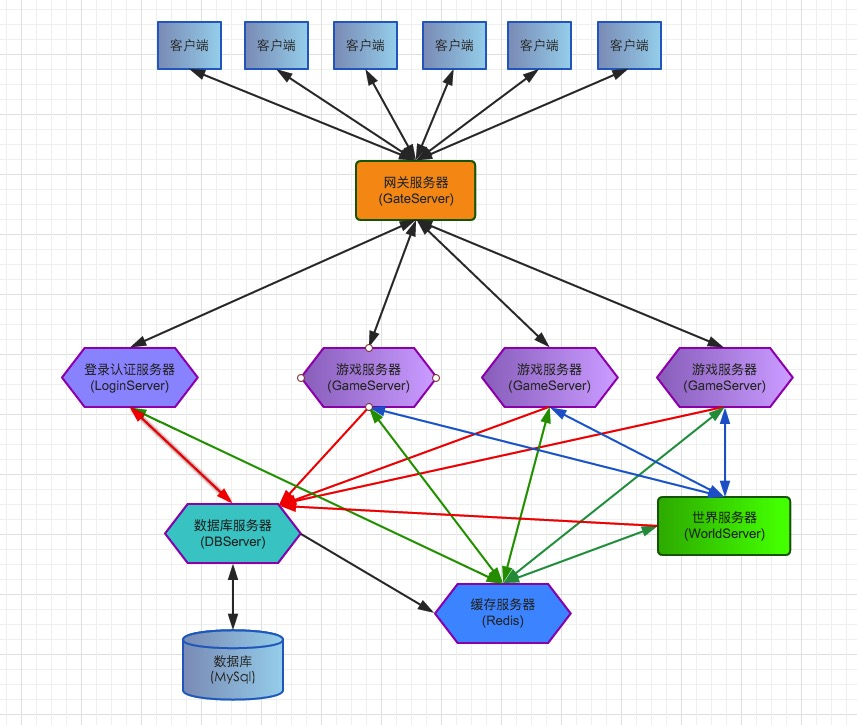
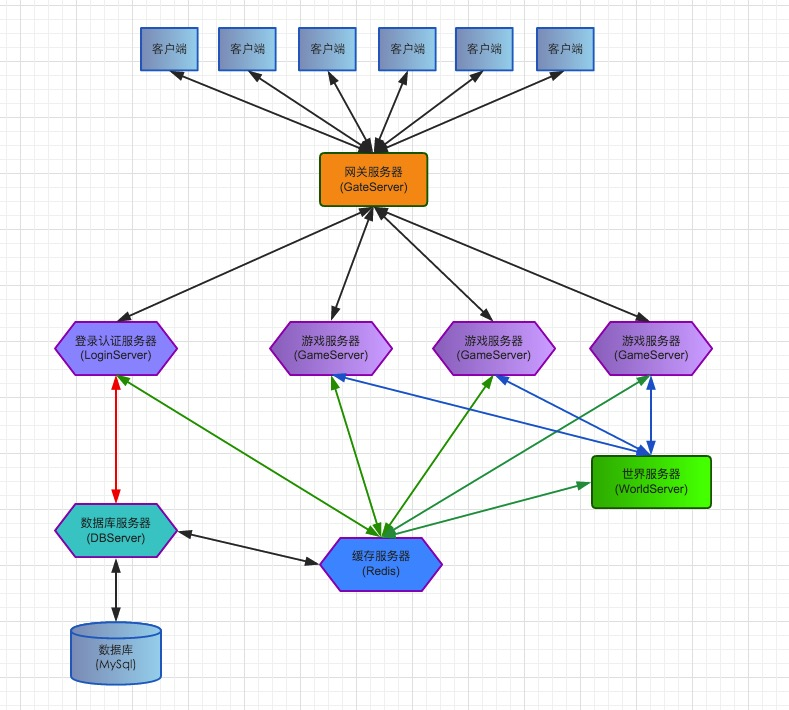
对DB的写入消息修改为由Redis存贮

diff --git a/src/proxys/dbProxy/dbProxyServer.go b/src/proxys/dbProxy/dbProxyServer.go
@@ -1,17 +1,16 @@
 package dbProxy
 
 import (
-	"container/list"
 	"github.com/funny/binary"
 	"github.com/funny/link"
 	"github.com/funny/link/packet"
 	"protos"
-	"protos/dbProto"
 	"protos/systemProto"
 	"strings"
 	. "tools"
 	"tools/db"
 	"tools/timer"
+	"proxys/redisProxy"
 )
 
 type goroutineMsg struct {
@@ -29,17 +28,15 @@ const (
 
 var (
 	servers                  map[string]*link.Session
-	asyncMsgs                *list.List
 	syncDbTimerID            uint64
 	revSyncMsgGoroutines     []goroutineObj
 	revSyncMsgGoroutineIndex int
-	revSyncMsgGoroutineNum   int
+	revSyncMsgGoroutineNum   int = 10
 )
 
 //初始化
 func InitServer(port string) error {
 	servers = make(map[string]*link.Session)
-	asyncMsgs = list.New()
 
 	db.Init()
 
@@ -65,9 +62,6 @@ func InitServer(port string) error {
 			if systemProto.IsValidID(msgID) {
 				//系统消息
 				dealReceiveSystemMsgC2S(session, msg)
-			} else if dbProto.IsValidAsyncID(msgID) {
-				//异步DB消息
-				asyncMsgs.PushBack(msg)
 			} else {
 				//同步DB消息
 				useObj := revSyncMsgGoroutines[revSyncMsgGoroutineIndex]
@@ -121,18 +115,21 @@ func StopSyncDB() {
 
 //同步数据到DB服务器
 func onSyncDBTimer() {
-	INFO("SyncDB Num: ", asyncMsgs.Len())
-	for msg := asyncMsgs.Front(); msg != nil; msg = msg.Next() {
-		protoMsg := msg.Value.(packet.RAW)
-		dealReceiveAsyncDBMsgC2S(protoMsg)
+	datas := redisProxy.PullDBWriteMsg()
+	if datas == nil{
+		return
 	}
-	asyncMsgs.Init()
+	dlen := len(datas)
+	for i := 0; i < dlen; i++ {
+		msg := datas[i]
+		dealReceiveAsyncDBMsgC2S(packet.RAW(msg))
+	}
+	INFO("SyncDB Num: ", dlen)
 }
 
 //创建接收同步消息的Goroutines
 func createRevGoroutines() {
 	revSyncMsgGoroutineIndex = 0
-	revSyncMsgGoroutineNum = 5
 	revSyncMsgGoroutines = make([]goroutineObj, revSyncMsgGoroutineNum)
 
 	for i := 0; i < revSyncMsgGoroutineNum; i++ {

diff --git a/src/proxys/redisProxy/redisProxyClientLogic.go b/src/proxys/redisProxy/redisProxyClientLogic.go
@@ -1,57 +1,25 @@
 package redisProxy
 
 import (
-	"encoding/json"
-	. "model"
-	"strconv"
+//	."tools"
 )
 
 const (
-	DB_User_Key     = "DB_User"
-	DB_UserName_Key = "DB_UserName"
+	DB_Write_Msgs = "DB_Write_Msgs"
 )
 
-//设置DBUser缓存
-func SetDBUser(dbUser *DBUserModel) {
-	userID := strconv.FormatUint(dbUser.ID, 10)
-
-	userKey := DB_User_Key + userID
-	data, _ := json.Marshal(dbUser)
-	client.Set(userKey, data)
-
-	userNameKey := DB_UserName_Key + dbUser.Name
-	client.Set(userNameKey, []byte(userID))
+//增加DB的写操作
+func PushDBWriteMsg(msg []byte) {
+	client.Rpush(DB_Write_Msgs, msg)
 }
 
-//根据UserID获取用户DB数据
-func GetDBUser(userID uint64) *DBUserModel {
-	key := DB_User_Key + strconv.FormatUint(userID, 10)
-	data, err := client.Get(key)
-	if err != nil {
+//获取所有未处理的写操作
+func PullDBWriteMsg() [][]byte{
+	datas, err := client.Lrange(DB_Write_Msgs, 0, -1)
+	if err != nil{
 		return nil
 	}
-	var dbUser *DBUserModel = NewDBUserModel()
-	json.Unmarshal(data, dbUser)
-	return dbUser
-}
 
-//根据UserName获取用户DB数据
-func GetDBUserByUserName(userName string) *DBUserModel {
-	userNameKey := DB_UserName_Key + userName
-	data, err := client.Get(userNameKey)
-	if err != nil {
-		return nil
-	}
-	userID, err := strconv.ParseUint(string(data), 10, 64)
-	return GetDBUser(userID)
-}
-
-//更新用户最后登录时间
-func UpdateUserLastLoginTime(userID uint64, time int64) {
-	var dbUser *DBUserModel = GetDBUser(userID)
-	if dbUser == nil {
-		return
-	}
-	dbUser.LastLoginTime = time
-	SetDBUser(dbUser)
+	client.Ltrim(DB_Write_Msgs, len(datas), -1)
+	return datas
 }

diff --git a/src/proxys/redisProxy/redisProxyClientLogic_User.go b/src/proxys/redisProxy/redisProxyClientLogic_User.go
@@ -1,0 +1,67 @@
+package redisProxy
+
+import (
+	"encoding/json"
+	. "model"
+	"strconv"
+	"protos/dbProto"
+	"protos"
+)
+
+const (
+	DB_User_Key     = "DB_User"
+	DB_UserName_Key = "DB_UserName"
+)
+
+//设置DBUser缓存
+func SetDBUser(dbUser *DBUserModel) {
+	userID := strconv.FormatUint(dbUser.ID, 10)
+
+	userKey := DB_User_Key + userID
+	data, _ := json.Marshal(dbUser)
+	client.Set(userKey, data)
+
+	userNameKey := DB_UserName_Key + dbUser.Name
+	client.Set(userNameKey, []byte(userID))
+}
+
+//根据UserID获取用户DB数据
+func GetDBUser(userID uint64) *DBUserModel {
+	key := DB_User_Key + strconv.FormatUint(userID, 10)
+	data, err := client.Get(key)
+	if err != nil {
+		return nil
+	}
+	var dbUser *DBUserModel = NewDBUserModel()
+	json.Unmarshal(data, dbUser)
+	return dbUser
+}
+
+//根据UserName获取用户DB数据
+func GetDBUserByUserName(userName string) *DBUserModel {
+	userNameKey := DB_UserName_Key + userName
+	data, err := client.Get(userNameKey)
+	if err != nil {
+		return nil
+	}
+	userID, err := strconv.ParseUint(string(data), 10, 64)
+	return GetDBUser(userID)
+}
+
+//更新用户最后登录时间
+func UpdateUserLastLoginTime(userID uint64, time int64) {
+	//更新内存
+	var dbUser *DBUserModel = GetDBUser(userID)
+	if dbUser == nil {
+		return
+	}
+	dbUser.LastLoginTime = time
+	SetDBUser(dbUser)
+
+	//更新DB
+	msg := dbProto.MarshalProtoMsg(0, &dbProto.DB_User_UpdateLastLoginTimeC2S{
+		UserID: protos.Uint64(userID),
+		Time:   protos.Int64(time),
+	})
+	PushDBWriteMsg(msg)
+}

diff --git a/src/GameServer/main.go b/src/GameServer/main.go
@@ -8,7 +8,6 @@ import (
 
 import (
 	"global"
-	"proxys/dbProxy"
 	"proxys/redisProxy"
 	"proxys/transferProxy"
 	"proxys/worldProxy"
@@ -48,10 +47,6 @@ func main() {
 	//连接WorldServer
 	worldProxyErr := worldProxy.InitClient(cfg.GetValue("world_ip"), cfg.GetValue("world_port"))
 	checkError(worldProxyErr)
-
-	//连接DB
-	dbProxyErr := dbProxy.InitClient(cfg.GetValue("db_ip"), cfg.GetValue("db_port"))
-	checkError(dbProxyErr)
 
 	//连接Redis
 	redisProxyErr := redisProxy.InitClient(cfg.GetValue("redis_ip"), cfg.GetValue("redis_port"))

diff --git a/src/proxys/dbProxy/dbProxyClientLogic.go b/src/proxys/dbProxy/dbProxyClientLogic.go
@@ -40,12 +40,3 @@ func userLoginCallBack(session *link.Session, protoMsg dbProto.ProtoMsg) {
 	rev_msg := protoMsg.Body.(*dbProto.DB_User_LoginS2C)
 	module.User.UserLoginHandle(session, rev_msg.GetName(), rev_msg.GetID())
 }
-
-//更新用户最后登录时间
-func UpdateUserLastLoginTime(identification uint64, userID uint64, time int64) {
-	msg := dbProto.MarshalProtoMsg(identification, &dbProto.DB_User_UpdateLastLoginTimeC2S{
-		UserID: protos.Uint64(userID),
-		Time:   protos.Int64(time),
-	})
-	sendDBMsgToServer(msg)
-}

diff --git a/src/WorldServer/main.go b/src/WorldServer/main.go
@@ -6,7 +6,6 @@ import (
 
 import (
 	"global"
-	"proxys/dbProxy"
 	"proxys/redisProxy"
 	"proxys/worldProxy"
 	. "tools"
@@ -37,10 +36,6 @@ func main() {
 
 	//启动
 	global.Startup(global.ServerName, "world_log", nil)
-
-	//连接DB
-	dbProxyErr := dbProxy.InitClient(cfg.GetValue("db_ip"), cfg.GetValue("db_port"))
-	checkError(dbProxyErr)
 
 	//连接Redis
 	redisProxyErr := redisProxy.InitClient(cfg.GetValue("redis_ip"), cfg.GetValue("redis_port"))

diff --git a/src/module/user/user.go b/src/module/user/user.go
@@ -77,7 +77,6 @@ func (this UserModule) Login(userName string, session *link.Session) {
 func (this UserModule) updateLastLoginTime(session *link.Session, userID uint64) {
 	nowTime := time.Now().Unix()
 	redisProxy.UpdateUserLastLoginTime(userID, nowTime)
-	dbProxy.UpdateUserLastLoginTime(session.Id(), userID, nowTime)
 }
 
 //用户登录成功处理
